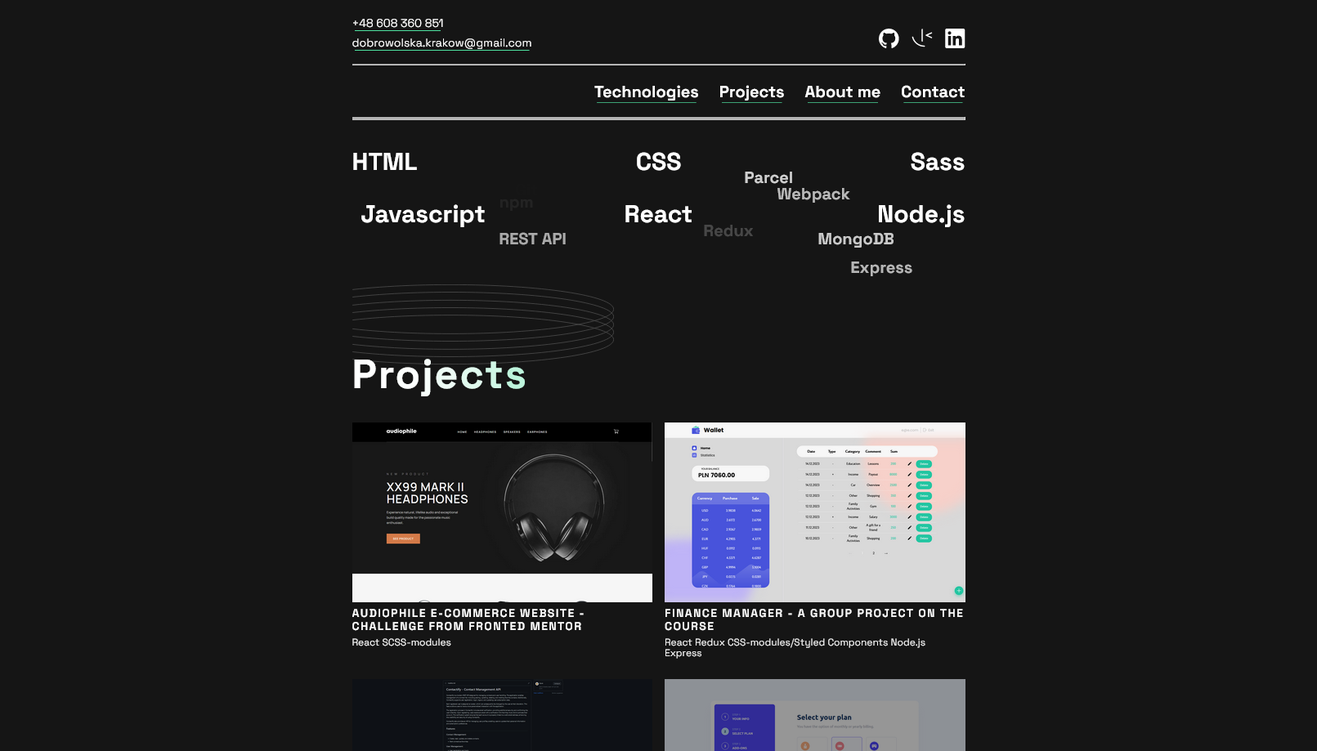
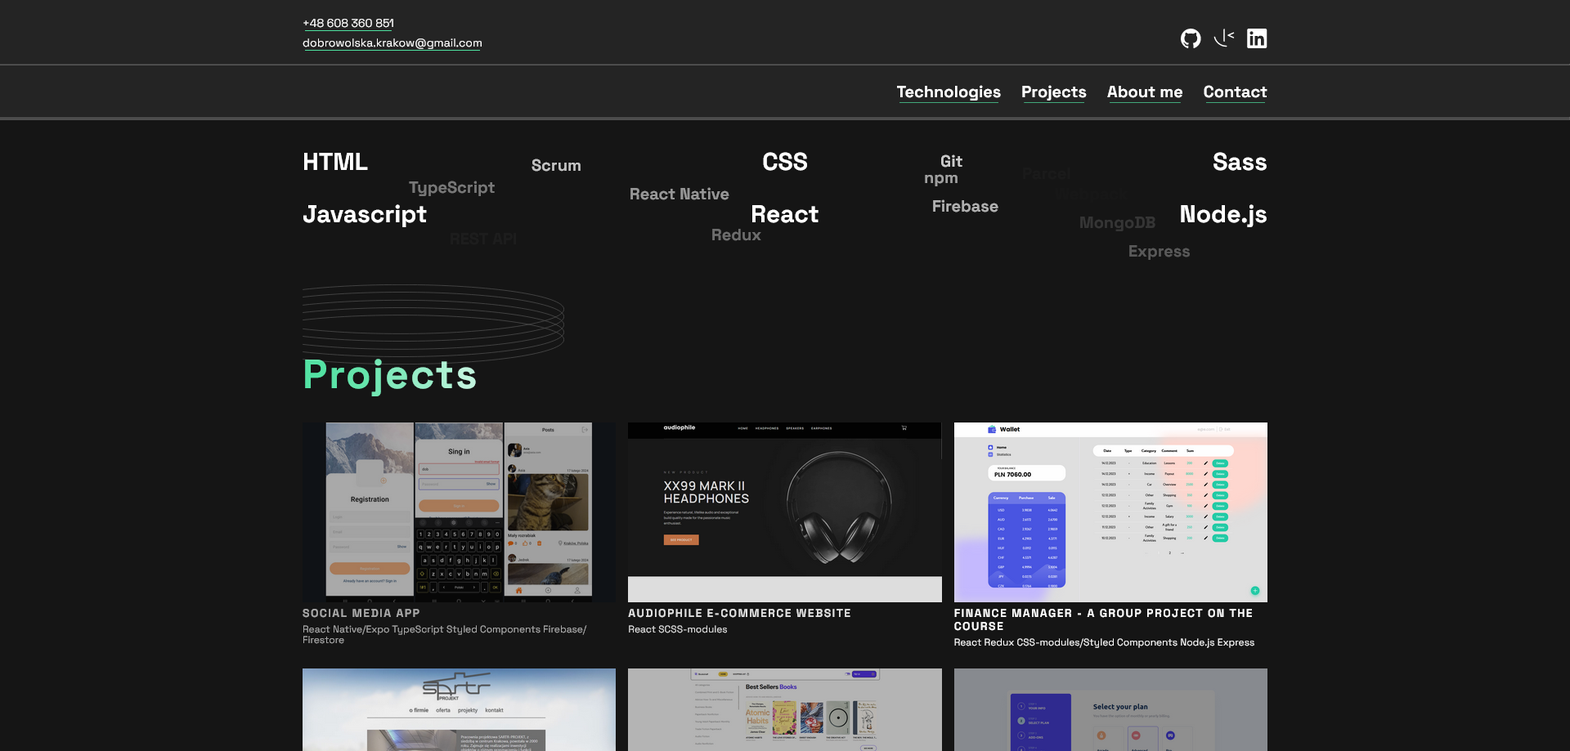
corrections of grafic

diff --git a/css/main.min.css b/css/main.min.css
@@ -1,1 +1,1 @@
-*{list-style:none;margin:0;padding:0}img{display:block;width:100%;height:100%;-o-object-fit:cover;object-fit:cover}a{text-decoration:none;color:inherit}html{scroll-padding-top:120px}body{font-family:"Space Grotesk",sans-serif;background-color:#151515;color:#fff}hr{color:#d9d9d9}.container{max-width:375px;padding:0 15px;margin:0 auto}@media(min-width: 768px){.container{max-width:750px;padding:0 0}}.underline{-webkit-box-shadow:0 4px 0 -3px #4ee1a0;box-shadow:0 4px 0 -3px #4ee1a0;-webkit-transition:color 250ms cubic-bezier(0.4, 0, 0.2, 1);transition:color 250ms cubic-bezier(0.4, 0, 0.2, 1)}.underline:hover,.underline:focus{color:#4ee1a0}.header{position:fixed;top:0;left:0;right:0;background-color:#151515;z-index:200;padding:15px 0 0 0}.header__contacts{display:-webkit-box;display:-ms-flexbox;display:flex;-webkit-box-orient:vertical;-webkit-box-direction:normal;-ms-flex-direction:column;flex-direction:column}.header__line{display:none}.contacts{font-size:14px;margin-bottom:10px}.contacts__item{margin-bottom:8px}.media{display:-webkit-box;display:-ms-flexbox;display:flex;gap:15px;margin-bottom:15px}.media__icon{fill:#fff;-webkit-transition:fill 250ms cubic-bezier(0.4, 0, 0.2, 1);transition:fill 250ms cubic-bezier(0.4, 0, 0.2, 1)}.media__icon:hover,.media__icon:focus{fill:#4ee1a0}.navigation{display:none}.menu-toggle{z-index:300;position:fixed;top:15px;right:20px;background-color:rgba(0,0,0,0);border:none}.menu-toggle__icon{fill:#d9d9d9}@media(min-width: 768px){.header{padding:20px 0 0 0}.header__contacts{-webkit-box-orient:horizontal;-webkit-box-direction:normal;-ms-flex-direction:row;flex-direction:row;-webkit-box-align:center;-ms-flex-align:center;align-items:center;-webkit-box-pack:justify;-ms-flex-pack:justify;justify-content:space-between}.header__line{display:block}.media{margin-bottom:0}.navigation{display:-webkit-box;display:-ms-flexbox;display:flex;-webkit-box-pack:end;-ms-flex-pack:end;justify-content:end;gap:25px;font-size:20px;font-weight:bold;margin:20px 0 20px 0}.menu-toggle{display:none}}.about-me{padding-top:30px}.about-me__container{overflow:hidden;position:relative}.about-me__rings{max-width:400px;position:absolute;right:0;-webkit-transform:translateX(20%) translateY(25%);transform:translateX(20%) translateY(25%)}.about-me__title{font-size:50px;margin:80px 0 0 0}.about-me__container-text{height:100%;min-height:558px;position:relative;overflow:auto}.text{display:-webkit-box;display:-ms-flexbox;display:flex;-webkit-box-orient:vertical;-webkit-box-direction:normal;-ms-flex-direction:column;flex-direction:column;position:absolute;width:100%;-webkit-transform:translateY(-100%);transform:translateY(-100%);-webkit-transition:-webkit-transform 1.5s ease-in-out;transition:-webkit-transform 1.5s ease-in-out;transition:transform 1.5s ease-in-out;transition:transform 1.5s ease-in-out, -webkit-transform 1.5s ease-in-out}.text__item{margin:30px 0 0 0;line-height:1.3;border:3px double #d9d9d9;padding:10px}.text__item:last-child{margin-bottom:30px}.text__item--short{position:relative;height:70px;overflow:hidden;-webkit-transition:height .5s ease;transition:height .5s ease}.text__see-more{position:absolute;bottom:5px;right:0;background-color:rgba(0,0,0,0);font-size:18px;font-weight:bold;cursor:pointer;color:#fff;border:none;-webkit-animation:colorChange 3000ms ease-in-out infinite alternate both;animation:colorChange 3000ms ease-in-out infinite alternate both;-webkit-transition:color 250ms cubic-bezier(0.4, 0, 0.2, 1);transition:color 250ms cubic-bezier(0.4, 0, 0.2, 1)}.text__see-more:hover,.text__see-more:focus{color:#4ee1a0}.text__title{letter-spacing:.2em}.text__description{margin:8px 0 0 0;font-size:14px;text-align:justify}.text__description--short::after{content:"";position:absolute;bottom:0;right:0;width:100%;height:1.5em;background:-webkit-gradient(linear, left top, left bottom, from(rgba(21, 21, 21, 0.2)), color-stop(50%, rgba(21, 21, 21, 0.8)));background:linear-gradient(to bottom, rgba(21, 21, 21, 0.2), rgba(21, 21, 21, 0.8) 50%)}.text.visible{-webkit-transform:translateY(0);transform:translateY(0)}.expanded .text__description--short::after{display:none}.expanded .text__see-more{display:none}.expanded{height:auto}@media(min-width: 768px){.about-me__container-text{height:100%;min-height:478px}.text__item{max-width:550px;border:none;padding:0}.text__item:nth-of-type(2),.text__item:nth-of-type(4){margin-left:auto}.text__item:nth-of-type(2) .text__title,.text__item:nth-of-type(4) .text__title{text-align:right}}.technologies{padding-top:180px}.technologies__container{position:relative}.technologies__list{position:relative;display:grid;grid-template-columns:repeat(2, 1fr);gap:30px 50px;margin-bottom:50px}.technologies__kind{font-size:30px;font-weight:bold}.technologies__css{text-align:right}.technologies__javascript{text-align:right}.technologies__node{text-align:right}.technologies__other{position:absolute;font-weight:bold;font-size:20px;-webkit-animation:animation 3000ms ease-in-out infinite alternate both;animation:animation 3000ms ease-in-out infinite alternate both;color:rgba(255,255,255,.8)}.technologies__redux{top:170px;left:60px;-webkit-animation-delay:1200ms;animation-delay:1200ms}.technologies__git{top:50px;left:110px}.technologies__npm{top:65px;left:90px;-webkit-animation-delay:700ms;animation-delay:700ms}.technologies__rest-api{top:95px;left:120px;-webkit-animation-delay:2200ms;animation-delay:2200ms}.technologies__webpack{top:45px;left:150px;-webkit-animation-delay:2400ms;animation-delay:2400ms}.technologies__parcel{top:25px;left:110px;-webkit-animation-delay:3000ms;animation-delay:3000ms}.technologies__mongo-db{top:180px;left:220px;-webkit-animation-delay:3500ms;animation-delay:3500ms}.technologies__express{top:150px;left:160px;-webkit-animation-delay:3900ms;animation-delay:3900ms}.technologies__typescript{top:5px;left:170px;-webkit-animation-delay:4200ms;animation-delay:4200ms}.technologies__reactNative{top:110px;left:40px;-webkit-animation-delay:4500ms;animation-delay:4500ms}.technologies__firebase{top:110px;left:210px;-webkit-animation-delay:4800ms;animation-delay:4800ms}.technologies__scrum{top:45px;left:35px;-webkit-animation-delay:5100ms;animation-delay:5100ms}@media(min-width: 768px){.technologies__list{grid-template-columns:repeat(3, 1fr);gap:30px 130px}.technologies__css{text-align:center}.technologies__sass{text-align:right}.technologies__react{text-align:center}.technologies__node{text-align:right}.technologies__redux{top:90px;left:430px}.technologies__git{top:5px;left:280px}.technologies__npm{top:20px;left:260px}.technologies__rest-api{top:100px;left:180px}.technologies__webpack{top:45px;left:520px}.technologies__parcel{top:25px;left:480px}.technologies__mongo-db{top:100px;left:570px}.technologies__express{top:135px;left:610px}.technologies__typescript{top:37px;left:130px}.technologies__reactNative{top:45px;left:370px}.technologies__firebase{top:60px;left:200px}.technologies__scrum{top:10px;left:180px}}@-webkit-keyframes animation{0%{visibility:hidden;opacity:0}100%{visibility:visible;opacity:1}}@keyframes animation{0%{visibility:hidden;opacity:0}100%{visibility:visible;opacity:1}}.portfolio__container{position:relative;overflow:hidden;padding-bottom:50px}.portfolio__rings{max-width:400px;position:absolute;-webkit-transform:translateX(-20%) translateY(20%);transform:translateX(-20%) translateY(20%)}.portfolio__title{font-size:50px;margin:100px 0 30px 0;letter-spacing:2px}.portfolio__title span{-webkit-animation:colorChange 3000ms ease-in-out infinite alternate both;animation:colorChange 3000ms ease-in-out infinite alternate both}.portfolio__list{display:grid;grid-template-columns:repeat(1, 1fr);gap:25px}.portfolio__list li{-webkit-animation:flash 2s ease-in-out infinite;animation:flash 2s ease-in-out infinite}.portfolio__list li:nth-child(1){-webkit-animation-delay:0s;animation-delay:0s}.portfolio__list li:nth-child(2){-webkit-animation-delay:.3s;animation-delay:.3s}.portfolio__list li:nth-child(3){-webkit-animation-delay:.6s;animation-delay:.6s}.portfolio__list li:nth-child(4){-webkit-animation-delay:.9s;animation-delay:.9s}.portfolio__list li:nth-child(5){-webkit-animation-delay:1.2s;animation-delay:1.2s}.portfolio__list li:nth-child(6){-webkit-animation-delay:1.5s;animation-delay:1.5s}.portfolio__list li:nth-child(7){-webkit-animation-delay:1.8s;animation-delay:1.8s}.portfolio__list li:nth-child(8){-webkit-animation-delay:2.1s;animation-delay:2.1s}.portfolio__list li:nth-child(9){-webkit-animation-delay:2.4s;animation-delay:2.4s}.portfolio__picture{height:220px;position:relative;-webkit-transition:-webkit-transform .6s ease-in-out;transition:-webkit-transform .6s ease-in-out;transition:transform .6s ease-in-out;transition:transform .6s ease-in-out, -webkit-transform .6s ease-in-out}.portfolio__picture:hover,.portfolio__picture:focus{-webkit-transform:scale(1.05);transform:scale(1.05)}.portfolio__picture:hover .portfolio__overlay,.portfolio__picture:focus .portfolio__overlay{opacity:1}.portfolio__picture:hover .portfolio__view-project,.portfolio__picture:hover .portfolio__view-code,.portfolio__picture:focus .portfolio__view-project,.portfolio__picture:focus .portfolio__view-code{opacity:1}.portfolio__overlay{position:absolute;top:0;left:0;right:0;bottom:0;background-image:-webkit-gradient(linear, left top, left bottom, from(rgba(47, 48, 58, 0.8)), to(rgba(47, 48, 58, 0.8)));background-image:linear-gradient(rgba(47, 48, 58, 0.8), rgba(47, 48, 58, 0.8));opacity:0;z-index:10;-webkit-transition:opacity .6s ease-in-out;transition:opacity .6s ease-in-out}.portfolio__view-project,.portfolio__view-code{position:absolute;top:30%;left:50%;-webkit-transform:translateX(-50%);transform:translateX(-50%);z-index:15;opacity:0;-webkit-transition:opacity 1s ease-in-out;transition:opacity 1s ease-in-out;text-align:center}.portfolio__view-code{top:60%}.portfolio__view-code--this{top:45%}.portfolio__picture-title{margin:5px 0 5px 0;letter-spacing:.1em;font-size:14px}.portfolio__picture-text{font-size:12px}@media(min-width: 768px){.portfolio__list{grid-template-columns:repeat(2, 1fr);gap:25px 15px}}@-webkit-keyframes colorChange{0%{color:#fff}100%{color:#4ee1a0}}@keyframes colorChange{0%{color:#fff}100%{color:#4ee1a0}}@-webkit-keyframes flash{0%,100%{opacity:1}50%{opacity:.5}}@keyframes flash{0%,100%{opacity:1}50%{opacity:.5}}.contact{background-color:#242424;padding-bottom:60px}.contact__whole-container{overflow:hidden;position:relative}.contact__rings{max-width:400px;position:absolute;top:130px;-webkit-transform:translateX(-50%);transform:translateX(-50%)}.contact__container{display:-webkit-box;display:-ms-flexbox;display:flex;-webkit-box-orient:vertical;-webkit-box-direction:normal;-ms-flex-direction:column;flex-direction:column;padding-top:50px}.contact__title{font-size:40px}.contact__address{font-style:normal;margin-top:30px}.contact__form{display:-webkit-box;display:-ms-flexbox;display:flex;-webkit-box-orient:vertical;-webkit-box-direction:normal;-ms-flex-direction:column;flex-direction:column;max-width:100%;min-width:100%;margin:75px 0 20px 0;position:relative}.contact__warning-name,.contact__warning-message,.contact__warning-email{position:absolute;right:0;font-size:12px;top:35px}.contact__warning-email{top:95px}.contact__warning-message{top:295px}.contact__name,.contact__message,.contact__email{background-color:rgba(0,0,0,0);color:#fff;padding:0 0 8px 0;border:none;outline:none;width:100%}.contact__email{height:60px;padding:24px 0 0 0}.contact__message{height:200px;resize:none;padding:24px 0 0 0}.contact__btn{display:block;width:130px;color:#fff;background-color:rgba(0,0,0,0);border:none;border-bottom:1px solid #4ee1a0;margin-top:40px;margin-left:auto;-webkit-transition:color 250ms cubic-bezier(0.4, 0, 0.2, 1);transition:color 250ms cubic-bezier(0.4, 0, 0.2, 1)}.contact__btn:hover,.contact__btn:focus{color:#4ee1a0;cursor:pointer}.contact__media{display:-webkit-box;display:-ms-flexbox;display:flex;-webkit-box-pack:end;-ms-flex-pack:end;justify-content:flex-end;margin:30px 0 0 0}.valid{border-bottom:1px solid #d9d9d9;-webkit-transition:border 250ms cubic-bezier(0.4, 0, 0.2, 1);transition:border 250ms cubic-bezier(0.4, 0, 0.2, 1)}.valid:hover,.valid:focus{border-bottom:1px solid #4ee1a0}.invalid{border-bottom:1px solid #ff6f5b}.disabled{border-bottom:1px solid #d9d9d9}.disabled:hover,.disabled:focus{color:#fff;cursor:not-allowed}.warning-valid{color:rgba(0,0,0,0)}.warning-invalid{color:#ff6f5b}@media(min-width: 768px){.contact__rings{top:150px}.contact__container{-webkit-box-orient:horizontal;-webkit-box-direction:normal;-ms-flex-direction:row;flex-direction:row;-webkit-box-pack:justify;-ms-flex-pack:justify;justify-content:space-between;padding-top:50px}.contact__address{margin-top:50px}.contact__form{max-width:365px;min-width:365px;margin:0 0 20px 0}}.mobil-menu{position:fixed;top:0;left:0;z-index:600;width:100vw;height:50vh;background-color:#242424;-webkit-transform:translateX(100%);transform:translateX(100%);-webkit-transition:-webkit-transform 250ms cubic-bezier(0.4, 0, 0.2, 1);transition:-webkit-transform 250ms cubic-bezier(0.4, 0, 0.2, 1);transition:transform 250ms cubic-bezier(0.4, 0, 0.2, 1);transition:transform 250ms cubic-bezier(0.4, 0, 0.2, 1), -webkit-transform 250ms cubic-bezier(0.4, 0, 0.2, 1)}.mobil-menu__menu-toggle{position:absolute;top:15px;right:20px;background-color:rgba(0,0,0,0);border:none}.mobil-menu__menu-toggle-icon{fill:#d9d9d9}.mobile-nav{display:-webkit-box;display:-ms-flexbox;display:flex;-webkit-box-orient:vertical;-webkit-box-direction:normal;-ms-flex-direction:column;flex-direction:column;-ms-flex-pack:distribute;justify-content:space-around;height:100%;-webkit-box-align:center;-ms-flex-align:center;align-items:center}.mobile-nav__link{color:#fff;font-size:30px}.is-open{-webkit-transform:translateX(0);transform:translateX(0)}/*# sourceMappingURL=main.min.css.map */
+*{list-style:none;margin:0;padding:0}img{display:block;width:100%;height:100%;-o-object-fit:cover;object-fit:cover}a{text-decoration:none;color:inherit}html{scroll-padding-top:120px}body{font-family:"Space Grotesk",sans-serif;background-color:#151515;color:#fff}hr{color:#5b5b5b}.container{max-width:375px;padding:0 15px;margin:0 auto}@media(min-width: 768px){.container{max-width:750px;padding:0 0}}@media(min-width: 1180px){.container{max-width:1180px;padding:0 0}}.underline{-webkit-box-shadow:0 4px 0 -3px #4ee1a0;box-shadow:0 4px 0 -3px #4ee1a0;-webkit-transition:color 250ms cubic-bezier(0.4, 0, 0.2, 1);transition:color 250ms cubic-bezier(0.4, 0, 0.2, 1)}.underline:hover,.underline:focus{color:#4ee1a0}.header{position:fixed;top:0;left:0;right:0;background-color:#242424;z-index:200;padding:15px 0 0 0}.header__contacts{display:-webkit-box;display:-ms-flexbox;display:flex;-webkit-box-orient:vertical;-webkit-box-direction:normal;-ms-flex-direction:column;flex-direction:column}.header__line{display:none}.contacts{font-size:14px;margin-bottom:10px}.contacts__item{margin-bottom:8px}.media{display:-webkit-box;display:-ms-flexbox;display:flex;gap:15px;margin-bottom:15px}.media__icon{fill:#fff;-webkit-transition:fill 250ms cubic-bezier(0.4, 0, 0.2, 1);transition:fill 250ms cubic-bezier(0.4, 0, 0.2, 1)}.media__icon:hover,.media__icon:focus{fill:#4ee1a0}.navigation{display:none}.menu-toggle{z-index:300;position:fixed;top:15px;right:20px;background-color:rgba(0,0,0,0);border:none}.menu-toggle__icon{fill:#d9d9d9}@media(min-width: 768px){.header{padding:20px 0 0 0}.header__contacts{-webkit-box-orient:horizontal;-webkit-box-direction:normal;-ms-flex-direction:row;flex-direction:row;-webkit-box-align:center;-ms-flex-align:center;align-items:center;-webkit-box-pack:justify;-ms-flex-pack:justify;justify-content:space-between}.header__line{display:block}.media{margin-bottom:0}.navigation{display:-webkit-box;display:-ms-flexbox;display:flex;-webkit-box-pack:end;-ms-flex-pack:end;justify-content:end;gap:25px;font-size:20px;font-weight:bold;margin:20px 0 20px 0}.menu-toggle{display:none}}.about-me{padding-top:30px}.about-me__container{overflow:hidden;position:relative}.about-me__rings{max-width:400px;position:absolute;right:0;-webkit-transform:translateX(20%) translateY(25%);transform:translateX(20%) translateY(25%)}.about-me__title{font-size:50px;margin:80px 0 0 0}.about-me__container-text{height:100%;min-height:558px;position:relative;overflow:auto}.text{display:-webkit-box;display:-ms-flexbox;display:flex;-webkit-box-orient:vertical;-webkit-box-direction:normal;-ms-flex-direction:column;flex-direction:column;position:absolute;width:100%;-webkit-transform:translateY(-100%);transform:translateY(-100%);-webkit-transition:-webkit-transform 1.5s ease-in-out;transition:-webkit-transform 1.5s ease-in-out;transition:transform 1.5s ease-in-out;transition:transform 1.5s ease-in-out, -webkit-transform 1.5s ease-in-out}.text__item{margin:30px 0 0 0;line-height:1.3;border:3px double #d9d9d9;padding:10px}.text__item:last-child{margin-bottom:30px}.text__item--short{position:relative;height:70px;overflow:hidden;-webkit-transition:height .5s ease;transition:height .5s ease}.text__see-more{position:absolute;bottom:5px;right:0;background-color:rgba(0,0,0,0);font-size:18px;font-weight:bold;cursor:pointer;color:#fff;border:none;-webkit-animation:colorChange 3000ms ease-in-out infinite alternate both;animation:colorChange 3000ms ease-in-out infinite alternate both;-webkit-transition:color 250ms cubic-bezier(0.4, 0, 0.2, 1);transition:color 250ms cubic-bezier(0.4, 0, 0.2, 1)}.text__see-more:hover,.text__see-more:focus{color:#4ee1a0}.text__title{letter-spacing:.2em}.text__description{margin:8px 0 0 0;font-size:14px;text-align:justify}.text__description--short::after{content:"";position:absolute;bottom:0;right:0;width:100%;height:1.5em;background:-webkit-gradient(linear, left top, left bottom, from(rgba(21, 21, 21, 0.2)), color-stop(50%, rgba(21, 21, 21, 0.8)));background:linear-gradient(to bottom, rgba(21, 21, 21, 0.2), rgba(21, 21, 21, 0.8) 50%)}.text.visible{-webkit-transform:translateY(0);transform:translateY(0)}.expanded .text__description--short::after{display:none}.expanded .text__see-more{display:none}.expanded{height:auto}@media(min-width: 768px){.about-me__container-text{height:100%;min-height:478px}.text__item{max-width:550px;border:none;padding:0}.text__item:nth-of-type(2),.text__item:nth-of-type(4){margin-left:auto}.text__item:nth-of-type(2) .text__title,.text__item:nth-of-type(4) .text__title{text-align:right}}@media(min-width: 1180px){.about-me__container-text{height:100%;min-height:478px}.text__item{max-width:700px;border:none;padding:0}.text__item:nth-of-type(2),.text__item:nth-of-type(4){margin-left:auto}.text__item:nth-of-type(2) .text__title,.text__item:nth-of-type(4) .text__title{text-align:right}}.technologies{padding-top:180px}.technologies__container{position:relative}.technologies__list{position:relative;display:grid;grid-template-columns:repeat(2, 1fr);gap:30px 50px;margin-bottom:50px}.technologies__kind{font-size:30px;font-weight:bold}.technologies__css{text-align:right}.technologies__javascript{text-align:right}.technologies__node{text-align:right}.technologies__other{position:absolute;font-weight:bold;font-size:20px;-webkit-animation:animation 3000ms ease-in-out infinite alternate both;animation:animation 3000ms ease-in-out infinite alternate both;color:rgba(255,255,255,.8)}.technologies__redux{top:170px;left:60px;-webkit-animation-delay:1200ms;animation-delay:1200ms}.technologies__git{top:50px;left:110px}.technologies__npm{top:65px;left:90px;-webkit-animation-delay:700ms;animation-delay:700ms}.technologies__rest-api{top:95px;left:120px;-webkit-animation-delay:2200ms;animation-delay:2200ms}.technologies__webpack{top:45px;left:150px;-webkit-animation-delay:2400ms;animation-delay:2400ms}.technologies__parcel{top:25px;left:110px;-webkit-animation-delay:3000ms;animation-delay:3000ms}.technologies__mongo-db{top:180px;left:220px;-webkit-animation-delay:3500ms;animation-delay:3500ms}.technologies__express{top:150px;left:160px;-webkit-animation-delay:3900ms;animation-delay:3900ms}.technologies__typescript{top:5px;left:170px;-webkit-animation-delay:4200ms;animation-delay:4200ms}.technologies__reactNative{top:110px;left:40px;-webkit-animation-delay:4500ms;animation-delay:4500ms}.technologies__firebase{top:110px;left:210px;-webkit-animation-delay:4800ms;animation-delay:4800ms}.technologies__scrum{top:45px;left:35px;-webkit-animation-delay:5100ms;animation-delay:5100ms}@media(min-width: 768px){.technologies__list{grid-template-columns:repeat(3, 1fr);gap:30px 130px}.technologies__html{text-align:left}.technologies__css{text-align:center}.technologies__sass{text-align:right}.technologies__javascript{text-align:left}.technologies__react{text-align:center}.technologies__node{text-align:right}.technologies__redux{top:90px;left:430px}.technologies__git{top:5px;left:280px}.technologies__npm{top:20px;left:260px}.technologies__rest-api{top:100px;left:180px}.technologies__webpack{top:45px;left:520px}.technologies__parcel{top:25px;left:480px}.technologies__mongo-db{top:100px;left:570px}.technologies__express{top:135px;left:610px}.technologies__typescript{top:37px;left:130px}.technologies__reactNative{top:45px;left:370px}.technologies__firebase{top:60px;left:200px}.technologies__scrum{top:10px;left:180px}}@media(min-width: 1180px){.technologies__list{grid-template-columns:repeat(3, 1fr);gap:30px 130px}.technologies__html{text-align:left}.technologies__css{text-align:center}.technologies__sass{text-align:right}.technologies__javascript{text-align:left}.technologies__react{text-align:center}.technologies__node{text-align:right}.technologies__redux{top:95px;left:500px}.technologies__git{top:5px;left:780px}.technologies__npm{top:25px;left:760px}.technologies__rest-api{top:100px;left:180px}.technologies__webpack{top:45px;left:920px}.technologies__parcel{top:20px;left:880px}.technologies__mongo-db{top:80px;left:950px}.technologies__express{top:115px;left:1010px}.technologies__typescript{top:37px;left:130px}.technologies__reactNative{top:45px;left:400px}.technologies__firebase{top:60px;left:770px}.technologies__scrum{top:10px;left:280px}}@-webkit-keyframes animation{0%{visibility:hidden;opacity:0}100%{visibility:visible;opacity:1}}@keyframes animation{0%{visibility:hidden;opacity:0}100%{visibility:visible;opacity:1}}.portfolio__container{position:relative;overflow:hidden;padding-bottom:50px}.portfolio__rings{max-width:400px;position:absolute;-webkit-transform:translateX(-20%) translateY(20%);transform:translateX(-20%) translateY(20%)}.portfolio__title{font-size:50px;margin:100px 0 30px 0;letter-spacing:2px}.portfolio__title span{-webkit-animation:colorChange 3000ms ease-in-out infinite alternate both;animation:colorChange 3000ms ease-in-out infinite alternate both}.portfolio__list{display:grid;grid-template-columns:repeat(1, 1fr);gap:25px}.portfolio__list li{-webkit-animation:flash 2s ease-in-out infinite;animation:flash 2s ease-in-out infinite}.portfolio__list li:nth-child(1){-webkit-animation-delay:0s;animation-delay:0s}.portfolio__list li:nth-child(2){-webkit-animation-delay:.3s;animation-delay:.3s}.portfolio__list li:nth-child(3){-webkit-animation-delay:.6s;animation-delay:.6s}.portfolio__list li:nth-child(4){-webkit-animation-delay:.9s;animation-delay:.9s}.portfolio__list li:nth-child(5){-webkit-animation-delay:1.2s;animation-delay:1.2s}.portfolio__list li:nth-child(6){-webkit-animation-delay:1.5s;animation-delay:1.5s}.portfolio__list li:nth-child(7){-webkit-animation-delay:1.8s;animation-delay:1.8s}.portfolio__list li:nth-child(8){-webkit-animation-delay:2.1s;animation-delay:2.1s}.portfolio__list li:nth-child(9){-webkit-animation-delay:2.4s;animation-delay:2.4s}.portfolio__picture{height:220px;position:relative;-webkit-transition:-webkit-transform .6s ease-in-out;transition:-webkit-transform .6s ease-in-out;transition:transform .6s ease-in-out;transition:transform .6s ease-in-out, -webkit-transform .6s ease-in-out}.portfolio__picture:hover,.portfolio__picture:focus{-webkit-transform:scale(1.05);transform:scale(1.05)}.portfolio__picture:hover .portfolio__overlay,.portfolio__picture:focus .portfolio__overlay{opacity:1}.portfolio__picture:hover .portfolio__view-project,.portfolio__picture:hover .portfolio__view-code,.portfolio__picture:focus .portfolio__view-project,.portfolio__picture:focus .portfolio__view-code{opacity:1}.portfolio__overlay{position:absolute;top:0;left:0;right:0;bottom:0;background-image:-webkit-gradient(linear, left top, left bottom, from(rgba(47, 48, 58, 0.8)), to(rgba(47, 48, 58, 0.8)));background-image:linear-gradient(rgba(47, 48, 58, 0.8), rgba(47, 48, 58, 0.8));opacity:0;z-index:10;-webkit-transition:opacity .6s ease-in-out;transition:opacity .6s ease-in-out}.portfolio__view-project,.portfolio__view-code{position:absolute;top:30%;left:50%;-webkit-transform:translateX(-50%);transform:translateX(-50%);z-index:15;opacity:0;-webkit-transition:opacity 1s ease-in-out;transition:opacity 1s ease-in-out;text-align:center}.portfolio__view-code{top:60%}.portfolio__view-code--this{top:45%}.portfolio__picture-title{margin:5px 0 5px 0;letter-spacing:.1em;font-size:14px}.portfolio__picture-text{font-size:12px}@media(min-width: 768px){.portfolio__list{grid-template-columns:repeat(2, 1fr);gap:25px 15px}}@media(min-width: 1180px){.portfolio__list{grid-template-columns:repeat(3, 1fr);gap:25px 15px}}@-webkit-keyframes colorChange{0%{color:#fff}100%{color:#4ee1a0}}@keyframes colorChange{0%{color:#fff}100%{color:#4ee1a0}}@-webkit-keyframes flash{0%,100%{opacity:1}50%{opacity:.5}}@keyframes flash{0%,100%{opacity:1}50%{opacity:.5}}.contact{background-color:#242424;padding-bottom:60px}.contact__whole-container{overflow:hidden;position:relative}.contact__rings{max-width:400px;position:absolute;top:130px;-webkit-transform:translateX(-50%);transform:translateX(-50%)}.contact__container{display:-webkit-box;display:-ms-flexbox;display:flex;-webkit-box-orient:vertical;-webkit-box-direction:normal;-ms-flex-direction:column;flex-direction:column;padding-top:50px}.contact__title{font-size:40px}.contact__address{font-style:normal;margin-top:30px}.contact__form{display:-webkit-box;display:-ms-flexbox;display:flex;-webkit-box-orient:vertical;-webkit-box-direction:normal;-ms-flex-direction:column;flex-direction:column;max-width:100%;min-width:100%;margin:75px 0 20px 0;position:relative}.contact__warning-name,.contact__warning-message,.contact__warning-email{position:absolute;right:0;font-size:12px;top:35px}.contact__warning-email{top:95px}.contact__warning-message{top:295px}.contact__name,.contact__message,.contact__email{background-color:rgba(0,0,0,0);color:#fff;padding:0 0 8px 0;border:none;outline:none;width:100%}.contact__email{height:60px;padding:24px 0 0 0}.contact__message{height:200px;resize:none;padding:24px 0 0 0}.contact__btn{display:block;width:130px;color:#fff;background-color:rgba(0,0,0,0);border:none;border-bottom:1px solid #4ee1a0;margin-top:40px;margin-left:auto;-webkit-transition:color 250ms cubic-bezier(0.4, 0, 0.2, 1);transition:color 250ms cubic-bezier(0.4, 0, 0.2, 1)}.contact__btn:hover,.contact__btn:focus{color:#4ee1a0;cursor:pointer}.contact__media{display:-webkit-box;display:-ms-flexbox;display:flex;-webkit-box-pack:end;-ms-flex-pack:end;justify-content:flex-end;margin:30px 0 0 0}.valid{border-bottom:1px solid #d9d9d9;-webkit-transition:border 250ms cubic-bezier(0.4, 0, 0.2, 1);transition:border 250ms cubic-bezier(0.4, 0, 0.2, 1)}.valid:hover,.valid:focus{border-bottom:1px solid #4ee1a0}.invalid{border-bottom:1px solid #ff6f5b}.disabled{border-bottom:1px solid #d9d9d9}.disabled:hover,.disabled:focus{color:#fff;cursor:not-allowed}.warning-valid{color:rgba(0,0,0,0)}.warning-invalid{color:#ff6f5b}@media(min-width: 768px){.contact__rings{top:150px}.contact__container{-webkit-box-orient:horizontal;-webkit-box-direction:normal;-ms-flex-direction:row;flex-direction:row;-webkit-box-pack:justify;-ms-flex-pack:justify;justify-content:space-between;padding-top:50px}.contact__address{margin-top:50px}.contact__form{max-width:365px;min-width:365px;margin:0 0 20px 0}}@media(min-width: 1180px){.contact__rings{top:150px}.contact__container{-webkit-box-orient:horizontal;-webkit-box-direction:normal;-ms-flex-direction:row;flex-direction:row;-webkit-box-pack:justify;-ms-flex-pack:justify;justify-content:space-between;padding-top:50px}.contact__address{margin-top:50px}.contact__form{max-width:460px;min-width:460px;margin:0 0 20px 0}}.mobil-menu{position:fixed;top:0;left:0;z-index:600;width:100vw;height:50vh;background-color:#242424;-webkit-transform:translateX(100%);transform:translateX(100%);-webkit-transition:-webkit-transform 250ms cubic-bezier(0.4, 0, 0.2, 1);transition:-webkit-transform 250ms cubic-bezier(0.4, 0, 0.2, 1);transition:transform 250ms cubic-bezier(0.4, 0, 0.2, 1);transition:transform 250ms cubic-bezier(0.4, 0, 0.2, 1), -webkit-transform 250ms cubic-bezier(0.4, 0, 0.2, 1)}.mobil-menu__menu-toggle{position:absolute;top:15px;right:20px;background-color:rgba(0,0,0,0);border:none}.mobil-menu__menu-toggle-icon{fill:#d9d9d9}.mobile-nav{display:-webkit-box;display:-ms-flexbox;display:flex;-webkit-box-orient:vertical;-webkit-box-direction:normal;-ms-flex-direction:column;flex-direction:column;-ms-flex-pack:distribute;justify-content:space-around;height:100%;-webkit-box-align:center;-ms-flex-align:center;align-items:center}.mobile-nav__link{color:#fff;font-size:30px}.is-open{-webkit-transform:translateX(0);transform:translateX(0)}/*# sourceMappingURL=main.min.css.map */

diff --git a/index.html b/index.html
@@ -44,49 +44,53 @@
               </svg></a></li>
         </ul>
       </div>
-      <hr class="header__line">
+    </div>
+    <hr class="header__line">
+    <div class="container">
       <menu class="navigation">
         <li><a class="underline" href="#technologies">Technologies</a></li>
         <li><a class="underline" href="#portfolio">Projects</a></li>
         <li><a class="underline" href="#about">About me</a></li>
         <li><a class="underline" href="#contact">Contact</a></li>
       </menu>
-      <hr>
-      <hr>
-      <button class="menu-toggle js-open-menu" aria-expanded="false" aria-controls="mobile-menu">
-        <svg class="menu-toggle__icon" width="24" height="16">
-          <use href="images/menu.svg#icon-menu"></use>
+    </div>
+    <hr>
+    <hr>
+    <div class="container"></div>
+    <button class="menu-toggle js-open-menu" aria-expanded="false" aria-controls="mobile-menu">
+      <svg class="menu-toggle__icon" width="24" height="16">
+        <use href="images/menu.svg#icon-menu"></use>
+      </svg>
+    </button>
+    <div class="mobil-menu js-menu-container" id="mobile-menu">
+      <button class="mobil-menu__menu-toggle js-close-menu">
+        <svg class="mobil-menu__menu-toggle-icon" width="18.67" height="18.67">
+          <use href="images/clouse.svg#icon-close"></use>
         </svg>
       </button>
-      <div class="mobil-menu js-menu-container" id="mobile-menu">
-        <button class="mobil-menu__menu-toggle js-close-menu">
-          <svg class="mobil-menu__menu-toggle-icon" width="18.67" height="18.67">
-            <use href="images/clouse.svg#icon-close"></use>
-          </svg>
-        </button>
-        <menu class="mobile-nav">
-          <li>
-            <a class="mobile-nav__link" href="#technologies">Technologies</a>
-          </li>
-          <li>
-            <a class="mobile-nav__link" href="#portfolio">Projects</a>
-          <li>
-            <a class="mobile-nav__link" href="#about">About me</a>
-          </li>
-          </li>
-          <li>
-            <a class="mobile-nav__link" href="#contact">Contact</a>
-          </li>
-        </menu>
-
-      </div>
+      <menu class="mobile-nav">
+        <li>
+          <a class="mobile-nav__link" href="#technologies">Technologies</a>
+        </li>
+        <li>
+          <a class="mobile-nav__link" href="#portfolio">Projects</a>
+        <li>
+          <a class="mobile-nav__link" href="#about">About me</a>
+        </li>
+        </li>
+        <li>
+          <a class="mobile-nav__link" href="#contact">Contact</a>
+        </li>
+      </menu>
+    </div>
+    </div>
   </header>
 
   <section class="technologies" id="technologies">
     <div class="container technologies__container">
       <ul class="technologies__list">
         <li class="technologies__item">
-          <p class="technologies__kind">HTML</p>
+          <p class="technologies__kind technologies__html">HTML</p>
         </li>
         <li>
           <p class="technologies__kind technologies__css">CSS</p>
@@ -357,7 +361,9 @@
           <p class="contact__warning-message warning-valid">Please fill in the correct format</p>
         </form>
       </div>
-      <hr>
+    </div>
+    <hr>
+    <div class="container">
       <div class="contact__media">
         <ul class="media">
           <li class="media__item"><a class="media__link" href="https://github.com/Astrix1234?tab=repositories"

diff --git a/scss/components/_section_technologies.scss b/scss/components/_section_technologies.scss
@@ -118,12 +118,20 @@
             gap: 30px 130px;
         }
 
+        &__html {
+            text-align: left;
+        }
+
         &__css {
             text-align: center;
         }
 
         &__sass {
             text-align: right;
+        }
+
+        &__javascript {
+            text-align: left;
         }
 
         &__react {
@@ -192,6 +200,99 @@
         &__scrum {
             top: 10px;
             left: 180px;
+        }
+    }
+}
+
+@media #{$desktop} {
+    .technologies {
+        &__list {
+            grid-template-columns: repeat(3, 1fr);
+            gap: 30px 130px;
+        }
+
+        &__html {
+            text-align: left;
+        }
+
+        &__css {
+            text-align: center;
+        }
+
+        &__sass {
+            text-align: right;
+        }
+
+        &__javascript {
+            text-align: left;
+        }
+
+        &__react {
+            text-align: center;
+        }
+
+        &__node {
+            text-align: right;
+        }
+
+        &__redux {
+            top: 95px;
+            left: 500px;
+        }
+
+        &__git {
+            top: 5px;
+            left: 780px;
+        }
+
+        &__npm {
+            top: 25px;
+            left: 760px;
+        }
+
+        &__rest-api {
+            top: 100px;
+            left: 180px;
+        }
+
+        &__webpack {
+            top: 45px;
+            left: 920px;
+        }
+
+        &__parcel {
+            top: 20px;
+            left: 880px;
+        }
+
+        &__mongo-db {
+            top: 80px;
+            left: 950px;
+        }
+
+        &__express {
+            top: 115px;
+            left: 1010px;
+        }
+
+        &__typescript {
+            top: 37px;
+            left: 130px;
+        }
+
+        &__reactNative {
+            top: 45px;
+            left: 400px;
+        }
+
+        &__firebase {
+            top: 60px;
+            left: 770px;
+        }
+
+        &__scrum {
+            top: 10px;
+            left: 280px;
         }
     }
 }

diff --git a/scss/components/_section_about-me.scss b/scss/components/_section_about-me.scss
@@ -140,3 +140,31 @@
         }
     }
 }
+
+@media #{$desktop} {
+    .about-me {
+        &__container-text {
+            height: 100%;
+            min-height: 478px;
+
+        }
+    }
+
+    .text {
+        &__item {
+            max-width: 700px;
+            border: none;
+            padding: 0;
+
+            &:nth-of-type(2),
+            &:nth-of-type(4) {
+                margin-left: auto;
+            }
+
+            &:nth-of-type(2) .text__title,
+            &:nth-of-type(4) .text__title {
+                text-align: right;
+            }
+        }
+    }
+}

diff --git a/scss/components/_footer.scss b/scss/components/_footer.scss
@@ -159,3 +159,29 @@
         }
     }
 }
+
+@media #{$desktop} {
+    .contact {
+
+        &__rings {
+            top: 150px;
+        }
+
+        &__container {
+            flex-direction: row;
+            justify-content: space-between;
+            padding-top: 50px;
+        }
+
+        &__address {
+            margin-top: 50px;
+        }
+
+        &__form {
+            max-width: 460px;
+            min-width: 460px;
+            margin: 0 0 20px 0;
+
+        }
+    }
+}

diff --git a/scss/components/_global-styles.scss b/scss/components/_global-styles.scss
@@ -9,7 +9,7 @@ body {
 }
 
 hr {
-  color: getColor("forth");
+  color: #5b5b5b
 }
 
 .container {
@@ -22,6 +22,13 @@ hr {
 @media #{$tabletDesktop} {
   .container {
     max-width: 750px;
+    padding: 0 0;
+  }
+}
+
+@media #{$desktop} {
+  .container {
+    max-width: 1180px;
     padding: 0 0;
   }
 }

diff --git a/scss/components/_header.scss b/scss/components/_header.scss
@@ -13,7 +13,7 @@
     top: 0;
     left: 0;
     right: 0;
-    background-color: getColor('primary');
+    background-color: getColor("third");
     z-index: 200;
     padding: 15px 0 0 0;
 
@@ -68,6 +68,8 @@
         fill: getColor("forth");
     }
 }
+
+
 
 @media #{$tabletDesktop} {
     .header {

diff --git a/scss/components/_section_portfolio.scss b/scss/components/_section_portfolio.scss
@@ -143,6 +143,16 @@
     }
 }
 
+@media #{$desktop} {
+    .portfolio {
+
+        &__list {
+            grid-template-columns: repeat(3, 1fr);
+            gap: 25px 15px;
+        }
+    }
+}
+
 @keyframes colorChange {
     0% {
         color: getColor("secondary");

diff --git a/scss/utils/_vars.scss b/scss/utils/_vars.scss
@@ -35,3 +35,4 @@ $transOpacity: opacity 250ms cubic-bezier(0.4, 0, 0.2, 1);
 $transTransform: transform 250ms cubic-bezier(0.4, 0, 0.2, 1);
 
 $tabletDesktop: '(min-width: 768px)';
+$desktop: '(min-width: 1180px)';
